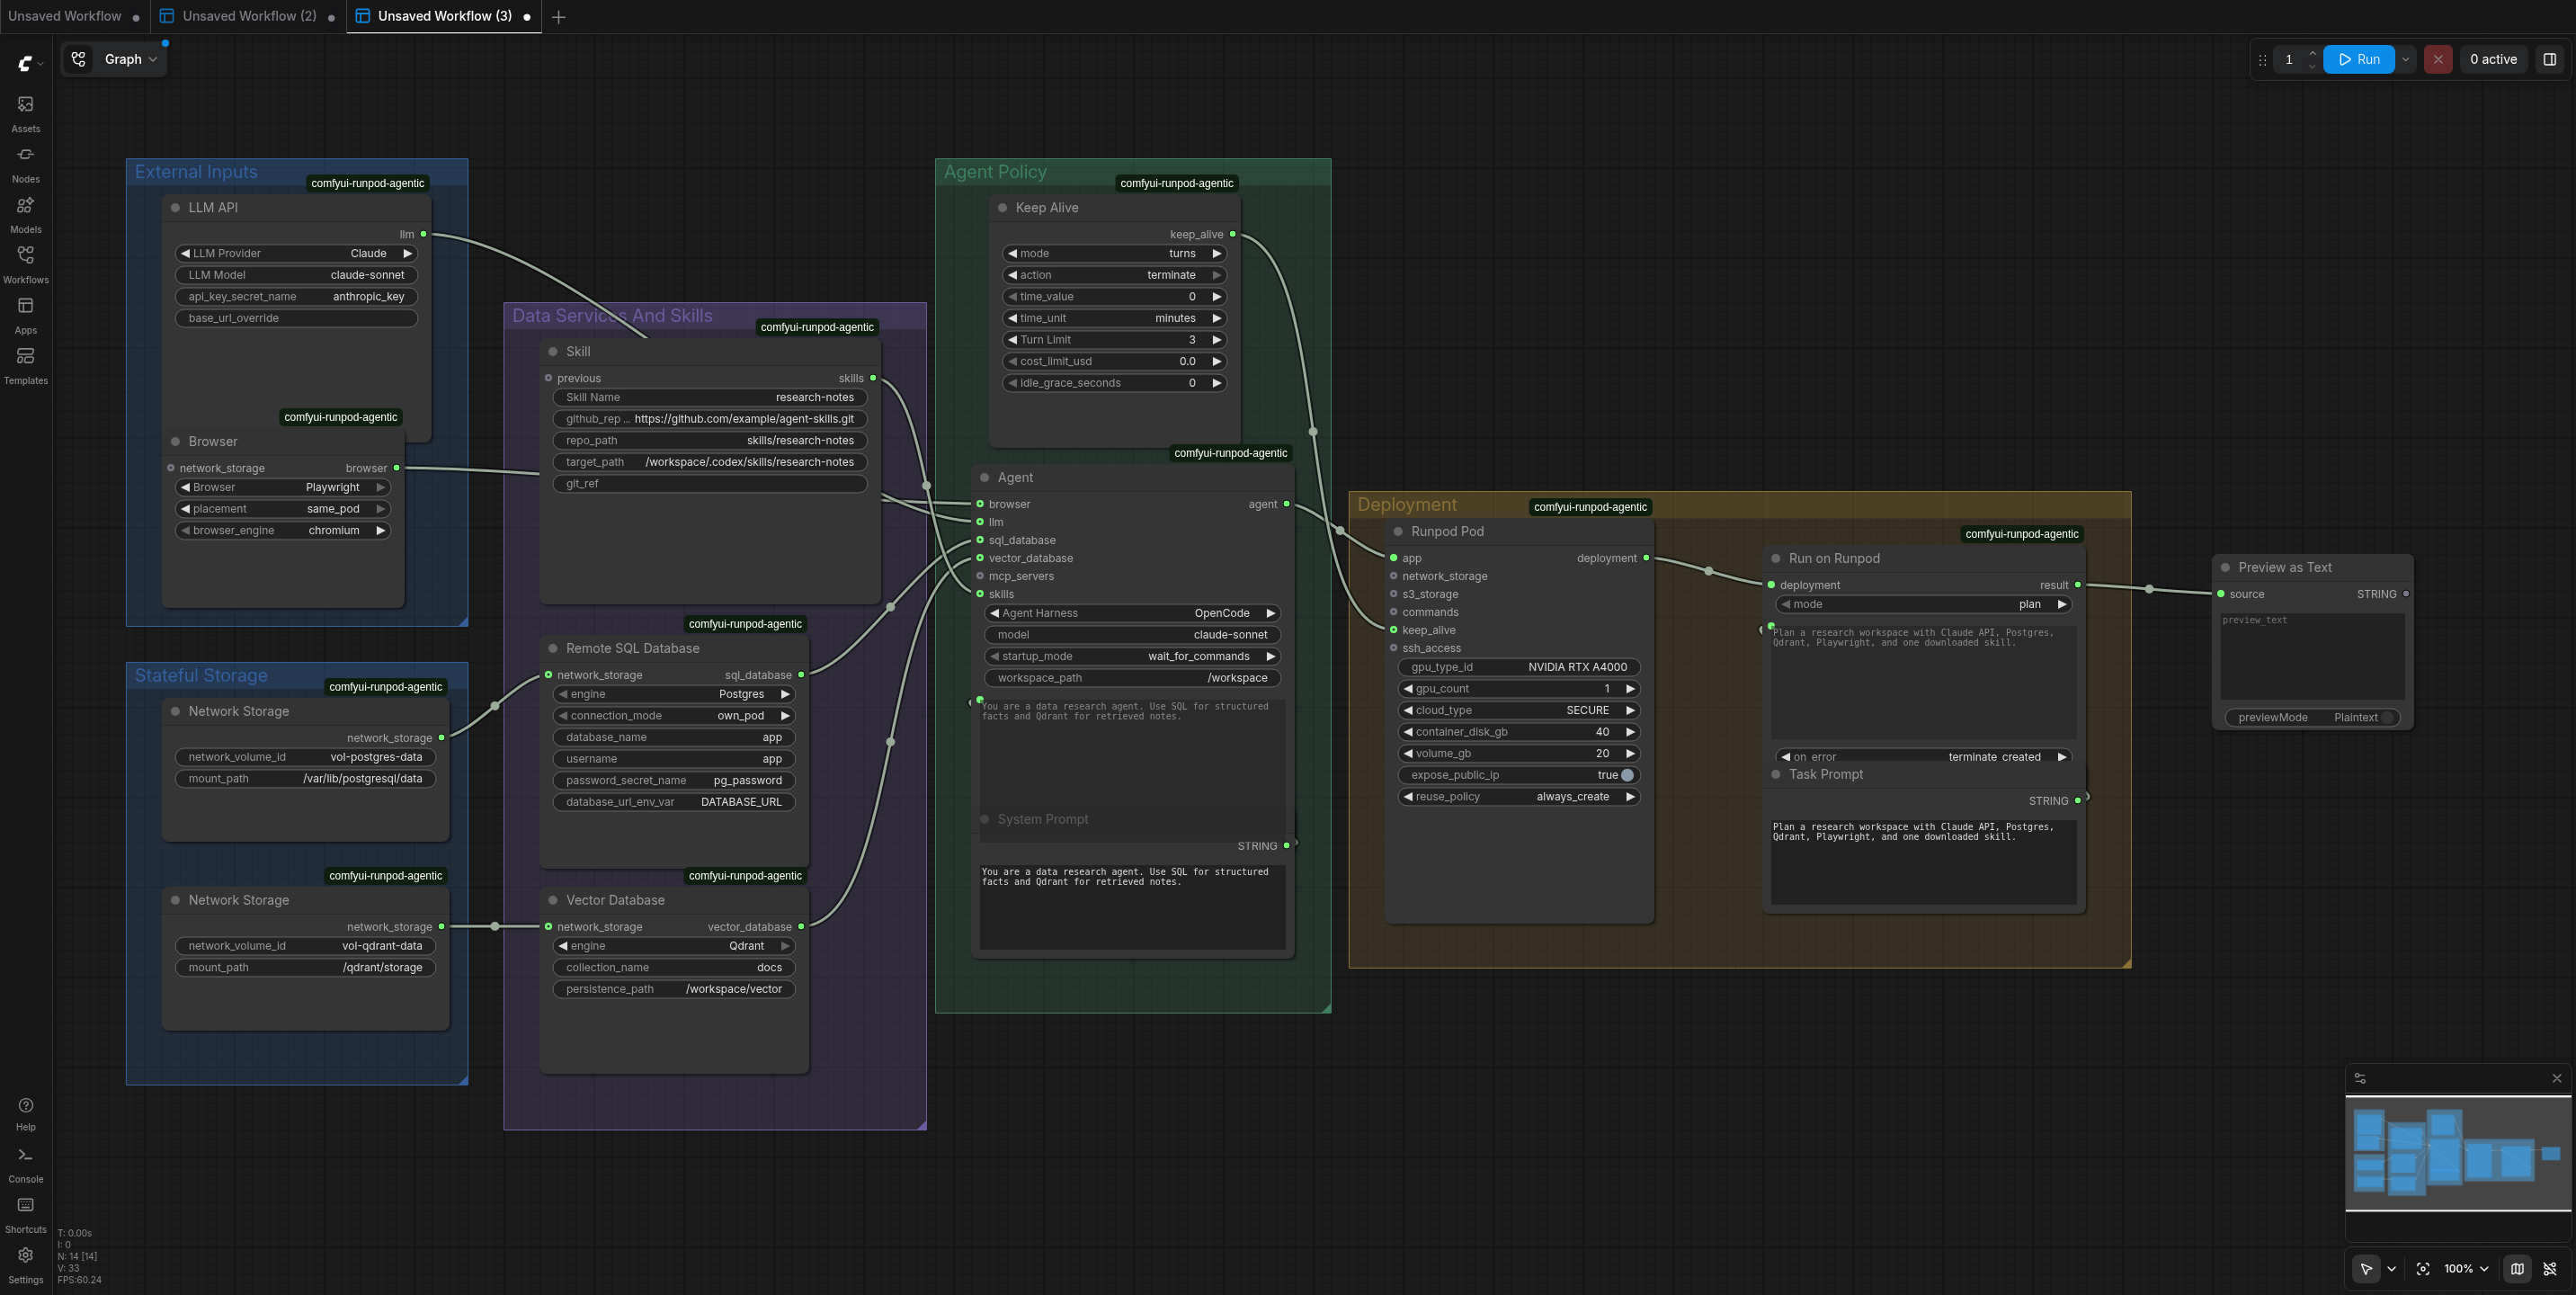
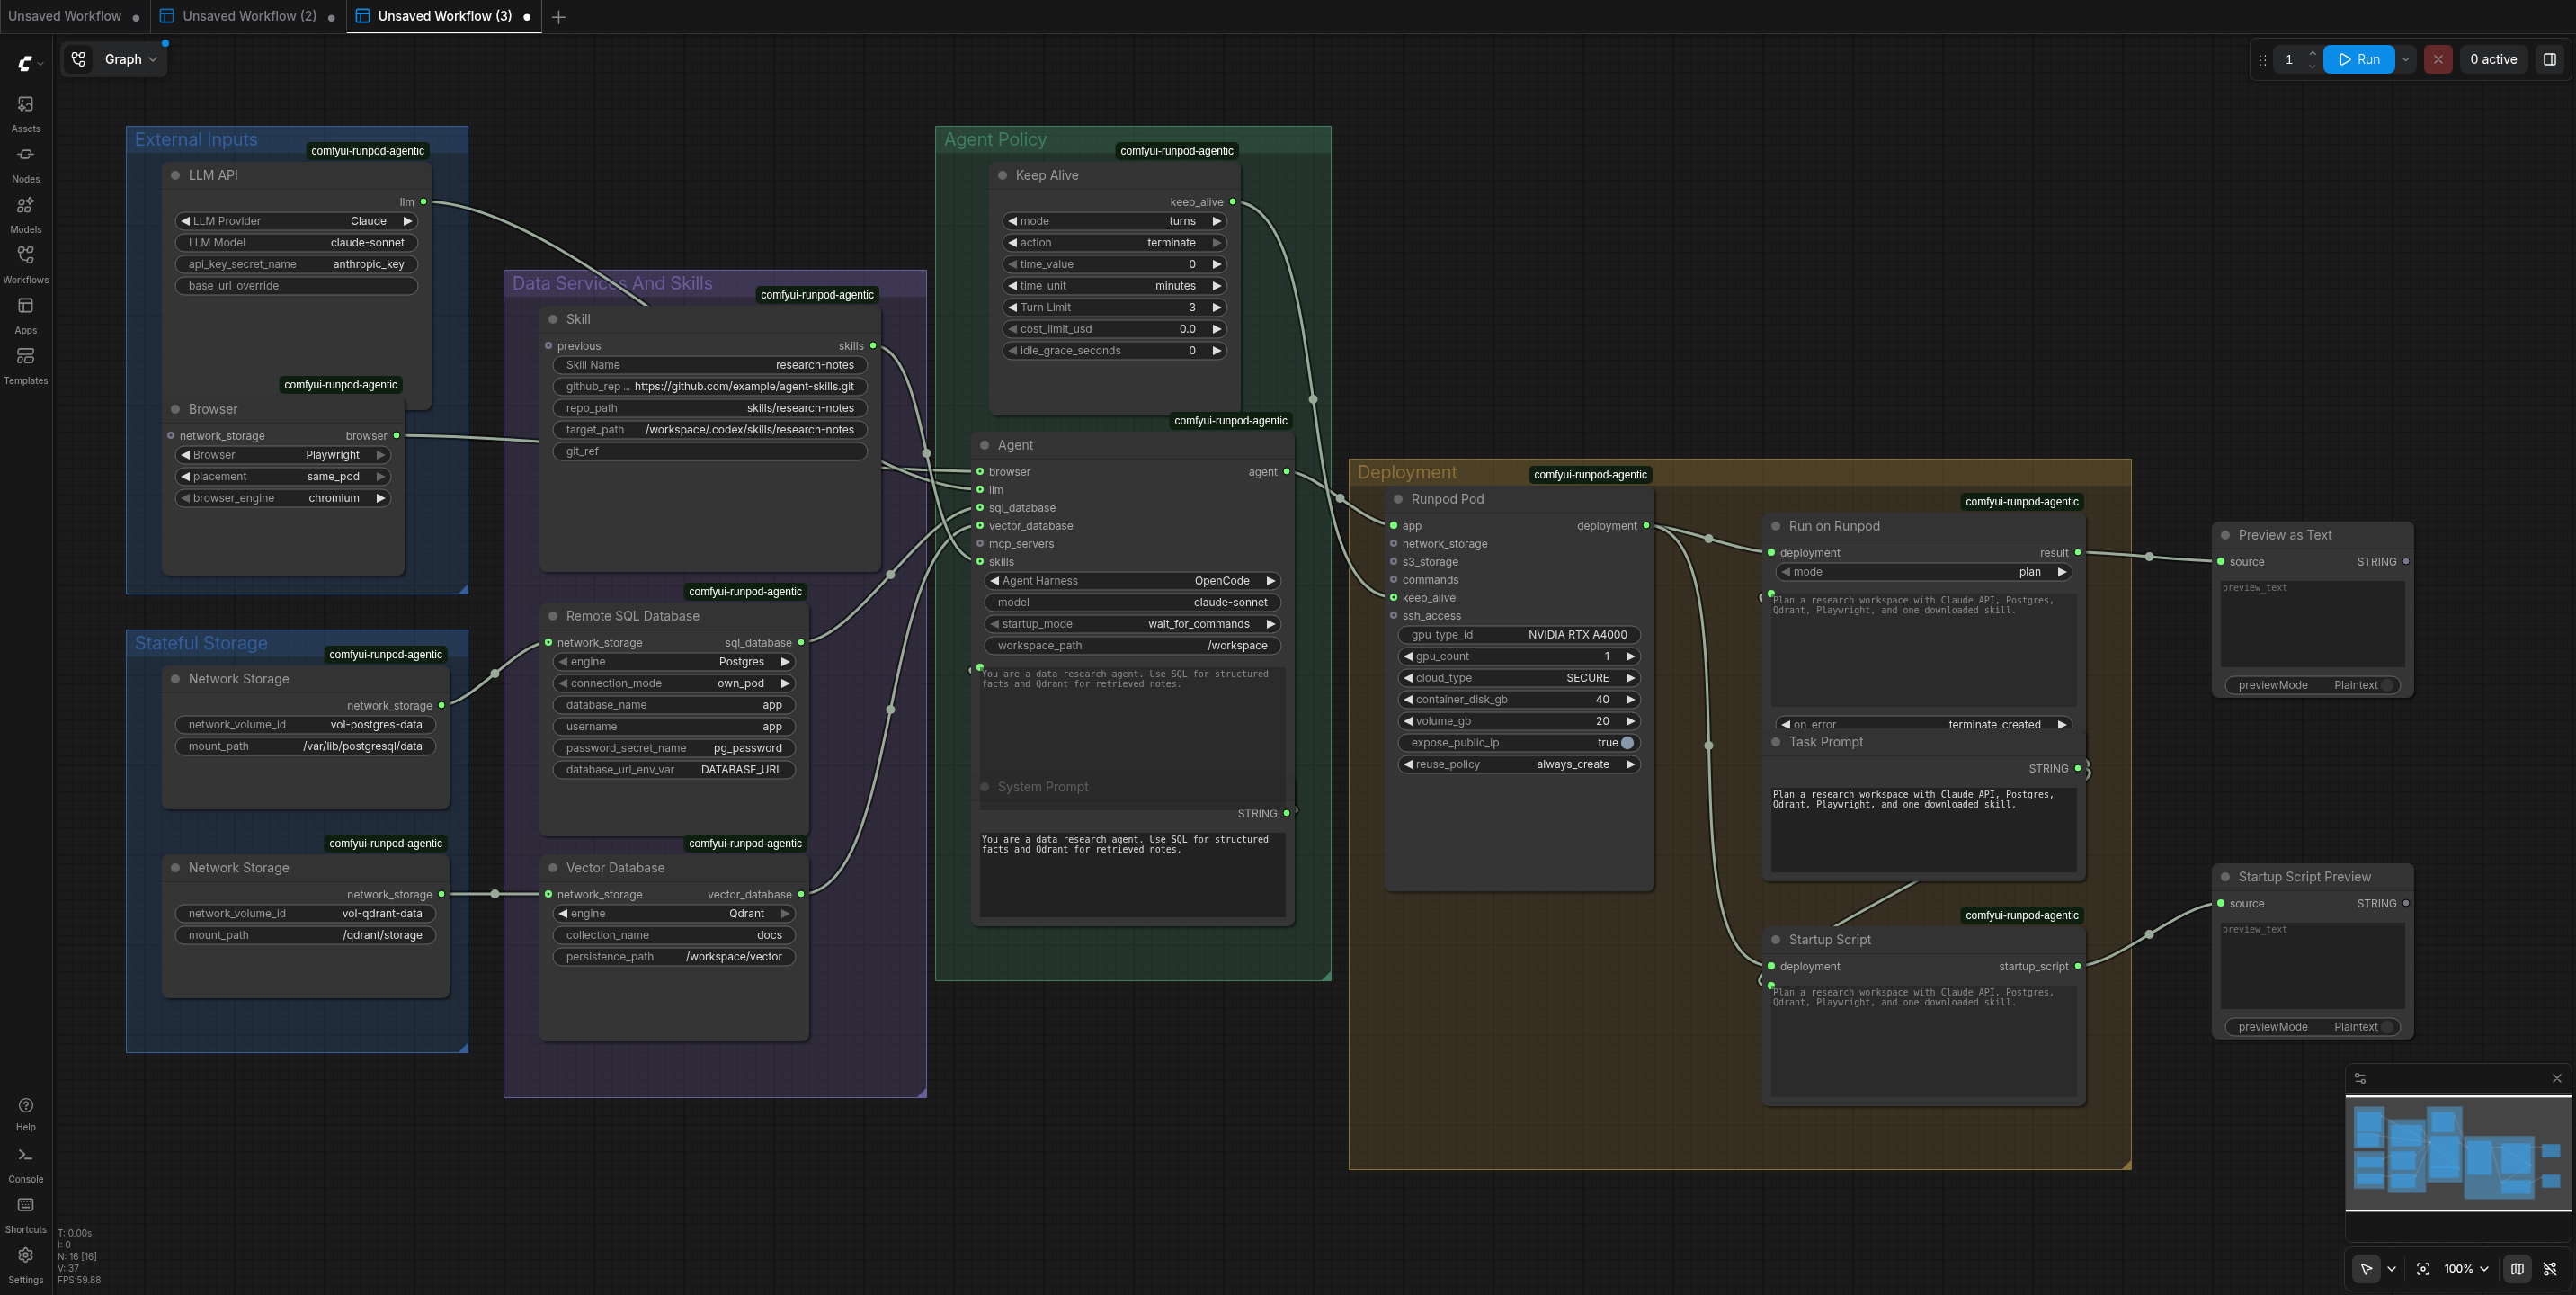
Add startup script export node

diff --git a/comfyui_runpod_agentic/runner.py b/comfyui_runpod_agentic/runner.py
@@ -216,19 +216,7 @@ class RunpodRunner:
         raise RuntimeError(f"Timed out waiting for SSH readiness on {host}:{port}: {stderr}")
 
     def _launch_command(self, plan: DeploymentPlan) -> str:
-        agent_env = next(resource for resource in plan.resources if resource.role == "agent").pod_input["env"]
-        if agent_env.get("AGENT_STARTUP_MODE") == "manual":
-            return ""
-        workspace = agent_env.get("WORKSPACE_DIR", "/workspace")
-        harness = agent_env.get("AGENT_HARNESS", "agent")
-        configured_launcher = os.environ.get("CRAG_AGENT_LAUNCH_COMMAND") or agent_env.get("CRAG_AGENT_LAUNCH_COMMAND")
-        if configured_launcher:
-            return f"cd {shell_env(workspace)} && mkdir -p .runpod_agentic && nohup bash -lc {shell_env(configured_launcher)} > .runpod_agentic/agent.log 2>&1 &"
-        return (
-            f"cd {shell_env(workspace)} && mkdir -p .runpod_agentic && "
-            f"chmod +x .runpod_agentic/launcher.sh .runpod_agentic/launcher.d/*.sh .runpod_agentic/launcher.d/harnesses/*.sh 2>/dev/null || true && "
-            f"nohup .runpod_agentic/launcher.sh {shell_env(harness)} > .runpod_agentic/agent.log 2>&1 &"
-        )
+        return launch_command_for_plan(plan)
 
     def _lifecycle(self, plan: DeploymentPlan, mode: str) -> dict[str, Any]:
         resources = self.state_store.list_resources()
@@ -268,6 +256,76 @@ class RunpodRunner:
 
 def shell_env(value: str) -> str:
     return "'" + str(value).replace("'", "'\"'\"'") + "'"
+
+
+def launch_command_for_plan(plan: DeploymentPlan) -> str:
+    agent_env = next(resource for resource in plan.resources if resource.role == "agent").pod_input["env"]
+    if agent_env.get("AGENT_STARTUP_MODE") == "manual":
+        return ""
+    workspace = agent_env.get("WORKSPACE_DIR", "/workspace")
+    harness = agent_env.get("AGENT_HARNESS", "agent")
+    configured_launcher = os.environ.get("CRAG_AGENT_LAUNCH_COMMAND") or agent_env.get("CRAG_AGENT_LAUNCH_COMMAND")
+    if configured_launcher:
+        return f"cd {shell_env(workspace)} && mkdir -p .runpod_agentic && nohup bash -lc {shell_env(configured_launcher)} > .runpod_agentic/agent.log 2>&1 &"
+    return (
+        f"cd {shell_env(workspace)} && mkdir -p .runpod_agentic && "
+        f"chmod +x .runpod_agentic/launcher.sh .runpod_agentic/launcher.d/*.sh .runpod_agentic/launcher.d/harnesses/*.sh 2>/dev/null || true && "
+        f"nohup .runpod_agentic/launcher.sh {shell_env(harness)} > .runpod_agentic/agent.log 2>&1 &"
+    )
+
+
+def startup_script_for_plan(plan: DeploymentPlan) -> str:
+    agent_env = next(resource for resource in plan.resources if resource.role == "agent").pod_input["env"]
+    workspace = agent_env.get("WORKSPACE_DIR", "/workspace")
+    base = workspace.rstrip("/") + "/.runpod_agentic"
+    commands = [action.detail for action in plan.actions if action.action == "RUN_SSH_COMMAND"]
+    lines = [
+        "bash <<'CRAG_STARTUP'",
+        "set -euo pipefail",
+        f"workspace={shell_env(workspace)}",
+        "mkdir -p \"$workspace/.runpod_agentic\"",
+        "cd \"$workspace\"",
+        *file_write_lines(f"{base}/resources.json", json.dumps({"resources": [to_plain(resource) for resource in plan.resources if resource.role != "agent"]}, indent=2, sort_keys=True)),
+        *file_write_lines(f"{base}/session.env", "\n".join(f"export {key}={shell_env(value)}" for key, value in sorted(plan.runtime_contract.env.values.items())) + "\n"),
+        *file_write_lines(f"{base}/commands.json", json.dumps(commands, indent=2, sort_keys=True)),
+    ]
+    if plan.runtime_contract.env.values.get("AGENT_SYSTEM_PROMPT"):
+        lines.extend(file_write_lines(f"{base}/system_prompt.txt", plan.runtime_contract.env.values["AGENT_SYSTEM_PROMPT"]))
+    if plan.runtime_contract.env.values.get("AGENT_PROMPT"):
+        lines.extend(file_write_lines(f"{base}/prompt.txt", plan.runtime_contract.env.values["AGENT_PROMPT"]))
+    if plan.runtime_contract.env.values.get("MCP_SERVERS_JSON"):
+        lines.extend(file_write_lines(f"{base}/mcp_servers.json", plan.runtime_contract.env.values["MCP_SERVERS_JSON"]))
+    for relative_path, content in launcher_runtime_files().items():
+        lines.extend(file_write_lines(f"{base}/{relative_path}", content))
+    for index, detail in enumerate(commands):
+        if detail.get("phase") == "before_start":
+            lines.extend(run_script_lines(f"crag_command_{index}", detail["command"]))
+    launch = launch_command_for_plan(plan)
+    if launch:
+        lines.append(launch)
+    else:
+        lines.append("echo 'CRAG startup mode is manual; launcher not started.'")
+    lines.append("CRAG_STARTUP")
+    return "\n".join(lines)
+
+
+def file_write_lines(path: str, content: str) -> list[str]:
+    marker = "CRAG_FILE_" + str(abs(hash(path)))
+    return [
+        f"mkdir -p $(dirname {shell_env(path)})",
+        f"cat > {shell_env(path)} <<'{marker}'",
+        content,
+        marker,
+    ]
+
+
+def run_script_lines(label: str, command: str) -> list[str]:
+    marker = label.upper()
+    return [
+        f"bash <<'{marker}'",
+        command,
+        marker,
+    ]
 
 
 def launcher_runtime_files() -> dict[str, str]:

diff --git a/comfyui_runpod_agentic/nodes.py b/comfyui_runpod_agentic/nodes.py
@@ -654,6 +654,23 @@ class RunpodRunNode:
         return (json.dumps(plan.to_dict(), indent=2, sort_keys=True),)
 
 
+class RunpodStartupScriptNode:
+    CATEGORY = "Runpod/Core"
+    RETURN_TYPES = ("STRING",)
+    RETURN_NAMES = ("startup_script",)
+    FUNCTION = "export"
+
+    @classmethod
+    def INPUT_TYPES(cls):
+        return {"required": {"deployment": (RUNPOD_DEPLOYMENT_SPEC,), "prompt": ("STRING", {"multiline": True, "default": ""})}, "hidden": {"workflow_graph": "PROMPT"}}
+
+    def export(self, deployment: DeploymentSpec, prompt: str = "", workflow_graph: Any = None):
+        from .runner import startup_script_for_plan
+
+        plan = Planner().build(deployment, mode="plan", prompt=prompt, workflow_graph=workflow_graph)
+        return (startup_script_for_plan(plan),)
+
+
 class RunpodLogsNode:
     CATEGORY = "Runpod/Core"
     RETURN_TYPES = ("STRING", "STRING")
@@ -727,5 +744,6 @@ NODE_CLASSES = [
     RunpodSSHAccessNode,
     RunpodPodNode,
     RunpodRunNode,
+    RunpodStartupScriptNode,
     RunpodLogsNode,
 ]

diff --git a/tests/test_runner.py b/tests/test_runner.py
@@ -16,6 +16,7 @@ from comfyui_runpod_agentic.runner import (
     first_ready_probe,
     launcher_runtime_files,
     readiness_probe_paths,
+    startup_script_for_plan,
 )
 from comfyui_runpod_agentic.state_store import StateStore
 
@@ -217,3 +218,18 @@ def test_launcher_runtime_files_include_common_harness_stubs():
     assert "launcher.d/harnesses/claude.sh" in files
     assert "launcher.d/harnesses/opencode.sh" in files
     assert "No compatible agent launcher" in files["launcher.d/harnesses/generic.sh"]
+
+
+def test_startup_script_for_plan_is_pasteable_bash(tmp_path, monkeypatch):
+    monkeypatch.setenv("RUNPOD_API_KEY", "test")
+    agent = RunpodAgentNode().build("Pi", "model", "wait_for_commands")[0]
+    deployment = RunpodPodNode().build(agent, gpu_count=0)[0]
+    runner = RunpodRunner(runpod_client=FakeRunpodClient(), ssh_client=FakeSSHClient(), state_store=StateStore(tmp_path / "state.sqlite"))
+    plan = runner.planner.build(deployment, mode="plan", prompt="Do it.", workflow_graph={"test": True})
+
+    script = startup_script_for_plan(plan)
+
+    assert script.startswith("bash <<'CRAG_STARTUP'")
+    assert ".runpod_agentic/launcher.sh" in script
+    assert "nohup .runpod_agentic/launcher.sh" in script
+    assert script.endswith("CRAG_STARTUP")

diff --git a/comfyui_runpod_agentic/__init__.py b/comfyui_runpod_agentic/__init__.py
@@ -16,6 +16,7 @@ from .nodes import (
     RunpodSkillNode,
     RunpodSSHAccessNode,
     RunpodSSHCommandNode,
+    RunpodStartupScriptNode,
     RunpodVectorDatabaseNode,
 )
 
@@ -37,6 +38,7 @@ NODE_CLASS_MAPPINGS = {
     "RunpodSSHAccess": RunpodSSHAccessNode,
     "RunpodPod": RunpodPodNode,
     "RunpodRun": RunpodRunNode,
+    "RunpodStartupScript": RunpodStartupScriptNode,
     "RunpodLogs": RunpodLogsNode,
 }
 
@@ -58,6 +60,7 @@ NODE_DISPLAY_NAME_MAPPINGS = {
     "RunpodSSHAccess": "SSH Access",
     "RunpodPod": "Runpod Pod",
     "RunpodRun": "Run on Runpod",
+    "RunpodStartupScript": "Startup Script",
     "RunpodLogs": "Runpod Logs",
 }
 

diff --git a/tests/e2e/comfy_cpu_smoke.py b/tests/e2e/comfy_cpu_smoke.py
@@ -29,6 +29,7 @@ EXPECTED_NODES = {
     "RunpodKeepAlive",
     "RunpodPod",
     "RunpodRun",
+    "RunpodStartupScript",
     "RunpodLogs",
 }
 

diff --git a/tests/test_specs.py b/tests/test_specs.py
@@ -18,6 +18,7 @@ from comfyui_runpod_agentic.validation import ValidationError
 def test_user_facing_core_node_names():
     assert NODE_DISPLAY_NAME_MAPPINGS["RunpodPod"] == "Runpod Pod"
     assert NODE_DISPLAY_NAME_MAPPINGS["RunpodRun"] == "Run on Runpod"
+    assert NODE_DISPLAY_NAME_MAPPINGS["RunpodStartupScript"] == "Startup Script"
     assert NODE_DISPLAY_NAME_MAPPINGS["RunpodRemoteSQLDatabase"] == "Remote SQL Database"
     assert NODE_DISPLAY_NAME_MAPPINGS["RunpodLocalSQLDatabase"] == "Local SQL Database"
     assert "RunpodSQLDatabase" not in NODE_DISPLAY_NAME_MAPPINGS

diff --git a/docs/user_guide.md b/docs/user_guide.md
@@ -144,6 +144,25 @@ Output:
 | --- | --- | --- |
 | `result` | `RUNPOD_RUN_RESULT` | JSON plan or execution result, usually connected to `PreviewAny`. |
 
+### Runpod Startup Script
+
+`Runpod Startup Script` exports the agent pod startup sequence as a single pasteable bash command. It does not call Runpod.
+
+Inputs:
+
+| Input | Type | Use |
+| --- | --- | --- |
+| `deployment` | `RUNPOD_DEPLOYMENT_SPEC` | The compiled pod deployment from `Runpod Pod`. |
+| `prompt` | multiline string | Task prompt to write into the generated runtime files. |
+
+Output:
+
+| Output | Type | Use |
+| --- | --- | --- |
+| `startup_script` | `STRING` | Pasteable bash command, usually connected to `PreviewAny`. |
+
+Use this when you want to inspect or manually run the exact `.runpod_agentic` bootstrap that CRAG would inject over SSH.
+
 ### Runpod Pod
 
 `Runpod Pod` wraps the primary agent and deployment policy.

diff --git a/README.md b/README.md
@@ -131,6 +131,7 @@ Apps and services:
 - `Vector Database`: Chroma or Qdrant.
 - `Network Storage` and `S3 Storage`.
 - `SSH Command`: declarative command chain executed by `Run on Runpod`.
+- `Startup Script`: ready-to-paste bash startup script for a deployment.
 
 ## Example Workflows
 